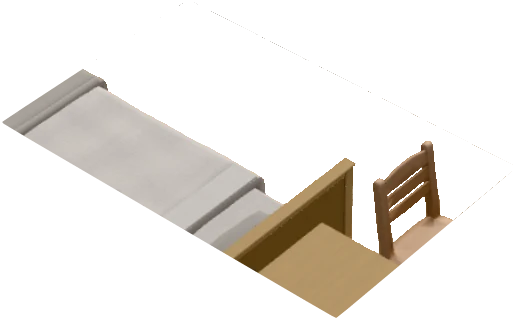
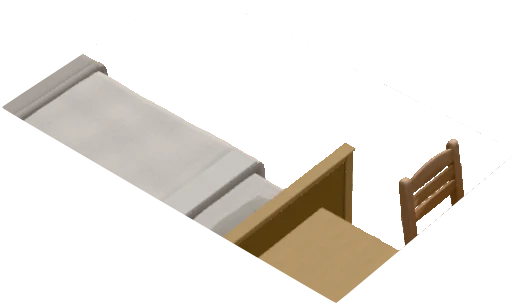
Hero demo: nothing stands in front of the bean bag
The desk chairs' backrests cut across the bean bag at both ends of Cooper's drag, so it read as a chair stuck in
the bag. The chairs are pushed in under their desks, and the bag is a little smaller and lands just left of the
chair under the window, starting a little further back, so it stays clear the whole way.

Claude-Session: https://claude.ai/code/session_01S6YCHmBKmE3hFcSRhUhYcX

diff --git a/components/home/Hero.module.css b/components/home/Hero.module.css
@@ -241,9 +241,9 @@
 .ly img { object-fit: fill; }
 .lyRoom { inset: 0; }
 .lyRug { left: 38.950%; top: 50.943%; width: 20.150%; height: 21.612%; animation: sprRug 12s linear infinite; }
-.lyOcc { left: 34.350%; top: 47.942%; width: 25.750%; height: 27.444%; }
-.lyBean { left: 55.100%; top: 43.997%; width: 12.150%; height: 17.496%; animation: sprBean 12s linear infinite; }
-.lyFront { left: 50.250%; top: 49.485%; width: 14.050%; height: 18.268%; }
+.lyOcc { left: 34.350%; top: 49.228%; width: 25.750%; height: 26.158%; }
+.lyBean { left: 54.750%; top: 42.967%; width: 11.200%; height: 16.638%; animation: sprBean 12s linear infinite; }
+.lyFront { left: 50.900%; top: 51.887%; width: 12.850%; height: 11.321%; }
 .dims { position: absolute; inset: 0; width: 100%; height: 100%; overflow: visible; pointer-events: none; }
 .dims line { stroke: var(--ds-blue); stroke-linecap: round; vector-effect: non-scaling-stroke; }
 .dl { stroke-width: 1.75; stroke-dasharray: 1; stroke-dashoffset: 0; }
@@ -304,7 +304,7 @@
   box-shadow: 0.25em 0.25em 0 var(--ds-ink);
   opacity: 0;
 }
-.curC { transform: translate(60.8%, 50.5%); animation: curC 12s linear infinite; }
+.curC { transform: translate(59.75%, 50.6%); animation: curC 12s linear infinite; }
 .curJ { transform: translate(48.94%, 61.04%); animation: curJ 12s linear infinite; }
 .curC .cname { background: var(--ds-magenta); }
 .curJ .cname { background: var(--ds-blue); }
@@ -384,7 +384,7 @@
 .heroCap .ft { color: var(--ds-ink); font-weight: 750; }
 
 /* ---------- The 12 s loop. Every element runs on the same clock. ---------- */
-@keyframes curC{0%{transform:translate(72%,62%);animation-timing-function:cubic-bezier(.65,0,.35,1)}4.167%{transform:translate(72%,62%);animation-timing-function:cubic-bezier(.65,0,.35,1)}10.417%{transform:translate(54.19%,59.07%)}11.25%{transform:translate(54.19%,59.07%);animation-timing-function:cubic-bezier(.45,0,.2,1)}25%{transform:translate(60.8%,50.5%)}27.5%{transform:translate(60.8%,50.5%);animation-timing-function:cubic-bezier(.65,0,.35,1)}35.833%{transform:translate(69%,34%);animation-timing-function:cubic-bezier(.65,0,.35,1)}45%{transform:translate(69.8%,35.7%);animation-timing-function:cubic-bezier(.65,0,.35,1)}54.167%{transform:translate(68.6%,35%)}64.167%{transform:translate(68.6%,35%);animation-timing-function:cubic-bezier(.65,0,.35,1)}70.833%{transform:translate(42%,69%)}75%{transform:translate(42%,69%);animation-timing-function:cubic-bezier(.65,0,.35,1)}84.167%{transform:translate(43.5%,71.5%)}90.833%{transform:translate(43.5%,71.5%);animation-timing-function:cubic-bezier(.65,0,.35,1)}100%{transform:translate(72%,62%)}}
+@keyframes curC{0%{transform:translate(72%,62%);animation-timing-function:cubic-bezier(.65,0,.35,1)}4.167%{transform:translate(72%,62%);animation-timing-function:cubic-bezier(.65,0,.35,1)}10.417%{transform:translate(52.66%,56.99%)}11.25%{transform:translate(52.66%,56.99%);animation-timing-function:cubic-bezier(.45,0,.2,1)}25%{transform:translate(59.75%,50.6%)}27.5%{transform:translate(59.75%,50.6%);animation-timing-function:cubic-bezier(.65,0,.35,1)}35.833%{transform:translate(69%,34%);animation-timing-function:cubic-bezier(.65,0,.35,1)}45%{transform:translate(69.8%,35.7%);animation-timing-function:cubic-bezier(.65,0,.35,1)}54.167%{transform:translate(68.6%,35%)}64.167%{transform:translate(68.6%,35%);animation-timing-function:cubic-bezier(.65,0,.35,1)}70.833%{transform:translate(42%,69%)}75%{transform:translate(42%,69%);animation-timing-function:cubic-bezier(.65,0,.35,1)}84.167%{transform:translate(43.5%,71.5%)}90.833%{transform:translate(43.5%,71.5%);animation-timing-function:cubic-bezier(.65,0,.35,1)}100%{transform:translate(72%,62%)}}
 @keyframes curJ{0%{transform:translate(28%,67%);animation-timing-function:cubic-bezier(.65,0,.35,1)}11.667%{transform:translate(29.8%,65%);animation-timing-function:cubic-bezier(.65,0,.35,1)}23.333%{transform:translate(28.6%,68%)}28.333%{transform:translate(28.6%,68%);animation-timing-function:cubic-bezier(.65,0,.35,1)}35.833%{transform:translate(45.3%,59.66%)}36.667%{transform:translate(45.3%,59.66%);animation-timing-function:cubic-bezier(.45,0,.2,1)}53.333%{transform:translate(48.94%,61.04%)}62.5%{transform:translate(48.94%,61.04%);animation-timing-function:cubic-bezier(.65,0,.35,1)}68.333%{transform:translate(45%,35%)}72.5%{transform:translate(45%,35%);animation-timing-function:cubic-bezier(.65,0,.35,1)}79.167%{transform:translate(46%,37%)}90.833%{transform:translate(46%,37%);animation-timing-function:cubic-bezier(.65,0,.35,1)}100%{transform:translate(28%,67%)}}
 @keyframes pressC{0%,10.417%{transform:none}11.25%,25%{transform:scale(.84)}26.25%,70.833%{transform:none}71.667%{transform:scale(.8)}73.333%,100%{transform:none}}
 @keyframes pressJ{0%,35.833%{transform:none}36.667%,53.333%{transform:scale(.84)}54.583%,68.333%{transform:none}69.167%{transform:scale(.8)}70.833%,100%{transform:none}}
@@ -394,7 +394,7 @@
 @keyframes capJ1{0%,24.167%{opacity:0;transform:translateY(.4em)}26.25%,34.167%{opacity:1;transform:none}35.833%,100%{opacity:0;transform:translateY(-.2em)}}
 @keyframes capC2{0%,55%{opacity:0;transform:translateY(.4em)}57.083%,64.167%{opacity:1;transform:none}65.833%,100%{opacity:0;transform:translateY(-.2em)}}
 @keyframes capJ2{0%,75%{opacity:0;transform:translateY(.4em)}77.083%,87.5%{opacity:1;transform:none}89.167%,100%{opacity:0;transform:translateY(-.2em)}}
-@keyframes sprBean{0%{transform:translate(-54.4%,48.99%) scale(1.04);opacity:1;filter:drop-shadow(0 0 0 rgba(192,24,111,0))}10.417%{filter:drop-shadow(0 0 0 rgba(192,24,111,0))}11.25%{transform:translate(-54.4%,48.99%) scale(1.04);filter:drop-shadow(0 0 4px rgba(192,24,111,.95));animation-timing-function:cubic-bezier(.45,0,.2,1)}25%{transform:none;filter:drop-shadow(0 0 4px rgba(192,24,111,.95))}27.5%{filter:drop-shadow(0 0 0 rgba(192,24,111,0))}93.333%{transform:none;opacity:1}95.833%{transform:none;opacity:0}96.25%{transform:translate(-54.4%,48.99%) scale(1.04);opacity:0}100%{transform:translate(-54.4%,48.99%) scale(1.04);opacity:1;filter:drop-shadow(0 0 0 rgba(192,24,111,0))}}
+@keyframes sprBean{0%{transform:translate(-63.31%,38.4%) scale(1.04);opacity:1;filter:drop-shadow(0 0 0 rgba(192,24,111,0))}10.417%{filter:drop-shadow(0 0 0 rgba(192,24,111,0))}11.25%{transform:translate(-63.31%,38.4%) scale(1.04);filter:drop-shadow(0 0 4px rgba(192,24,111,.95));animation-timing-function:cubic-bezier(.45,0,.2,1)}25%{transform:none;filter:drop-shadow(0 0 4px rgba(192,24,111,.95))}27.5%{filter:drop-shadow(0 0 0 rgba(192,24,111,0))}93.333%{transform:none;opacity:1}95.833%{transform:none;opacity:0}96.25%{transform:translate(-63.31%,38.4%) scale(1.04);opacity:0}100%{transform:translate(-63.31%,38.4%) scale(1.04);opacity:1;filter:drop-shadow(0 0 0 rgba(192,24,111,0))}}
 @keyframes sprRug{0%{transform:translate(-18.07%,-6.38%) scale(.99);opacity:1;filter:drop-shadow(0 0 0 rgba(36,73,255,0))}35.833%{filter:drop-shadow(0 0 0 rgba(36,73,255,0))}36.667%{transform:translate(-18.07%,-6.38%) scale(.99);filter:drop-shadow(0 0 4px rgba(36,73,255,.95));animation-timing-function:cubic-bezier(.45,0,.2,1)}53.333%{transform:none;filter:drop-shadow(0 0 4px rgba(36,73,255,.95))}55.833%{filter:drop-shadow(0 0 0 rgba(36,73,255,0))}93.333%{transform:none;opacity:1}95.833%{transform:none;opacity:0}96.25%{transform:translate(-18.07%,-6.38%) scale(.99);opacity:0}100%{transform:translate(-18.07%,-6.38%) scale(.99);opacity:1;filter:drop-shadow(0 0 0 rgba(36,73,255,0))}}
 @keyframes popBean{0%,25.417%{opacity:0;transform:scale(.6);animation-timing-function:cubic-bezier(.34,1.56,.64,1)}27.917%,91.667%{opacity:1;transform:none}95%,100%{opacity:0;transform:scale(.9)}}
 @keyframes popRug{0%,54.167%{opacity:0;transform:scale(.6);animation-timing-function:cubic-bezier(.34,1.56,.64,1)}56.667%,91.667%{opacity:1;transform:none}95%,100%{opacity:0;transform:scale(.9)}}

diff --git a/components/home/HomeHero.tsx b/components/home/HomeHero.tsx
@@ -211,7 +211,7 @@ function Stage({ dims }: { dims: React.ReactNode }) {
         {layer(css.lyRug, "/redesign/hero-rug-v3.webp", "An orange rug with a light border")}
         {layer(css.lyOcc, "/redesign/hero-occluder-v6.webp", "The near bed, dresser and desk chair, drawn over the rug")}
         {layer(css.lyBean, "/redesign/hero-bean-v3.webp", "A magenta bean bag chair")}
-        {layer(css.lyFront, "/redesign/hero-front-v5.webp", "The desk chairs in front of the bean bag")}
+        {layer(css.lyFront, "/redesign/hero-front-v5.webp", "A bed post and desk chair in front of the bean bag")}
         <svg className={css.dims} viewBox="0 0 1000 583.333" preserveAspectRatio="xMidYMid meet">
           <line className={`${css.dl} ${css.dlF}`} pathLength={1} x1="472.47" y1="292.34" x2="598.82" y2="356.25" />
           <line className={`${css.dl} ${css.dlR}`} pathLength={1} x1="454.15" y1="293.26" x2="380.18" y2="343.13" />
@@ -235,7 +235,7 @@ function Stage({ dims }: { dims: React.ReactNode }) {
         <span className={css.at} style={{ left: "48.9%", top: "59%" }}>
           <Tag who="s" className={css.popRug} />
         </span>
-        <span className={css.at} style={{ left: "60.9%", top: "41.5%" }}>
+        <span className={css.at} style={{ left: "59.9%", top: "40.5%" }}>
           <Tag who="c" className={css.popBean} />
         </span>
         <div className={css.toastAt}>
